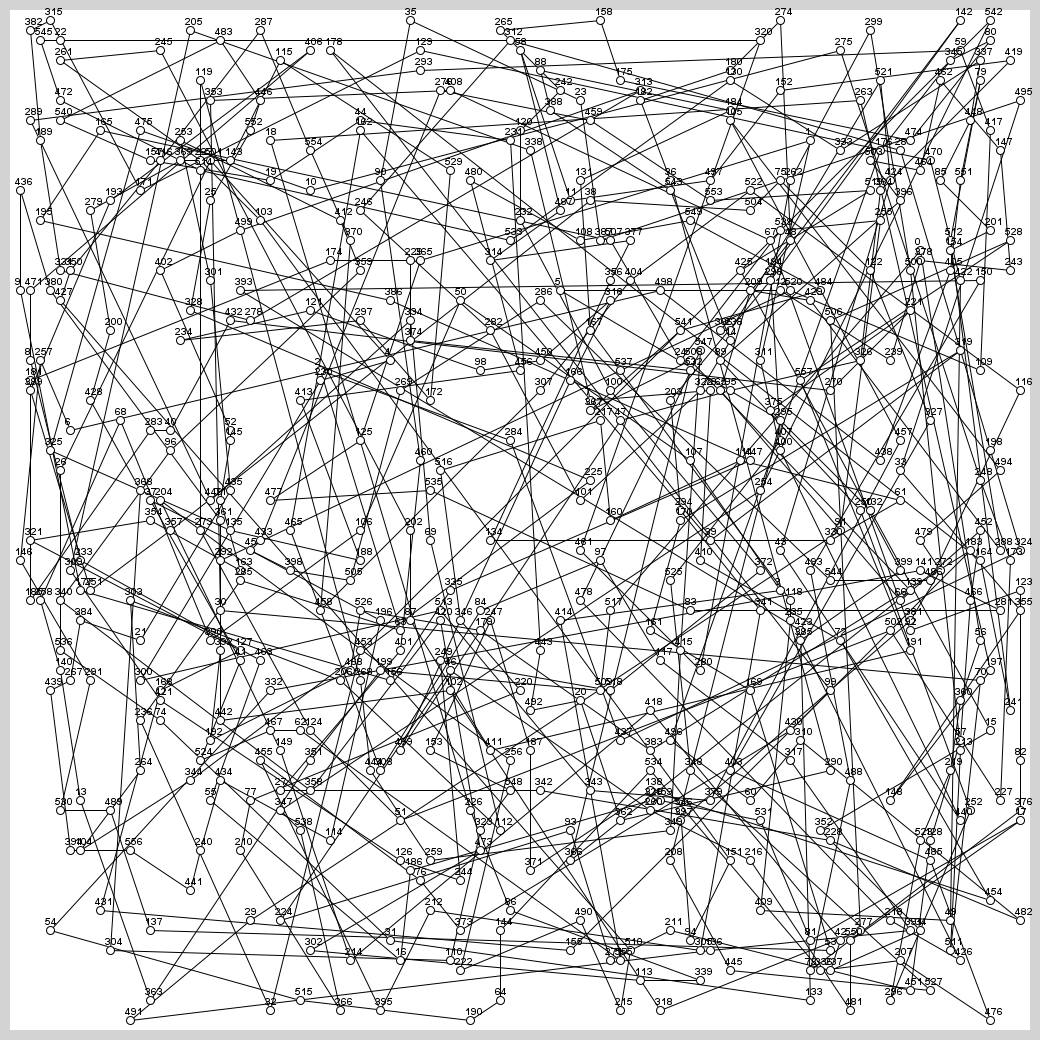
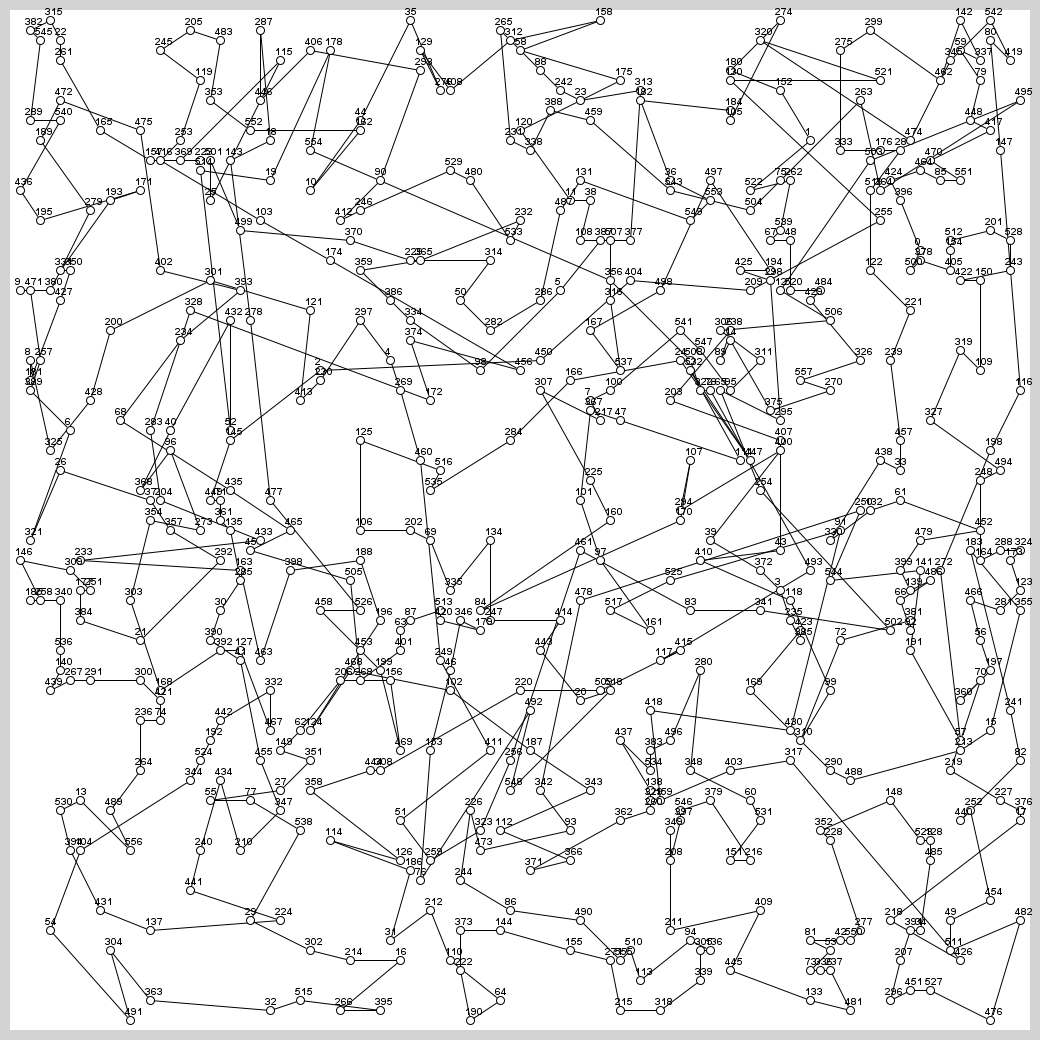
少し離れた点も交換するようにした

diff --git a/TypicalMM_TSP/main.cpp b/TypicalMM_TSP/main.cpp
@@ -220,7 +220,7 @@ public:
 class Annealing {
 private:
 
-	const int T = 10000;
+	const int T = 100000;
 
 	bool probability(const double& base, const double& next, const long long& t) const {
 
@@ -243,6 +243,19 @@ private:
 		return r;
 	}
 
+	void change(const int index, const int width, vector<int>& field) {
+
+		const int size = static_cast<int>(field.size());
+
+		for (int i = 0; i < width / 2; i++)
+		{
+			int p1 = (index + (i + 1)) % size;
+			int p2 = (index + (width - 1) - (i + 1)) % size;
+
+			swap(field[p1], field[p2]);
+		}
+	}
+
 public:
 
 	Annealing() {
@@ -263,7 +276,8 @@ public:
 		random_device rnd;
 		mt19937 mt(rnd());
 
-		uniform_int_distribution<> randBetween(0, size - 1);
+		uniform_int_distribution<> randIndex(0, size - 1);
+		bernoulli_distribution randWidth(1.0 / 3.0);
 
 		Timer timer(chrono::milliseconds(this->T));
 
@@ -279,37 +293,39 @@ public:
 
 			for (int i = 0; i < 100; i++)
 			{
-				const int index = randBetween(mt);
+				const int index = randIndex(mt);
+
+				int width = 4;
+
+				for (int i = 0; i < 40; i++)
+				{
+					if (mt() % 16 == 0) break;
+					width++;
+				}
+
 				count++;
 
 				const int p0 = index;
 				const int p1 = (index + 1) % size;
-				const int p2 = (index + 2) % size;
-				const int p3 = (index + 3) % size;
+				const int p2 = (index + width - 2) % size;
+				const int p3 = (index + width - 1) % size;
 
 				const double baseRange = range(points[field[p0]], points[field[p1]]) + range(points[field[p2]], points[field[p3]]);
 				const double deffRange = range(points[field[p0]], points[field[p2]]) + range(points[field[p1]], points[field[p3]]);
 
 				if (probability(baseRange, deffRange, diff))
 				{
-					swap(field[p1], field[p2]);
+					change(p0, width, field);
 
 					score -= baseRange - deffRange;
 
-					if (bestScore > score && baseRange < deffRange)
+					if (bestScore > score)
 					{
 						best = field;
-						swap(best[p1], best[p2]);
-						bestScore = score += baseRange - deffRange;
+						bestScore = score;
 					}
 				}
 			}
-		}
-
-		if (bestScore > score)
-		{
-			best = field;
-			bestScore = score;
 		}
 
 		cerr << count << endl;
